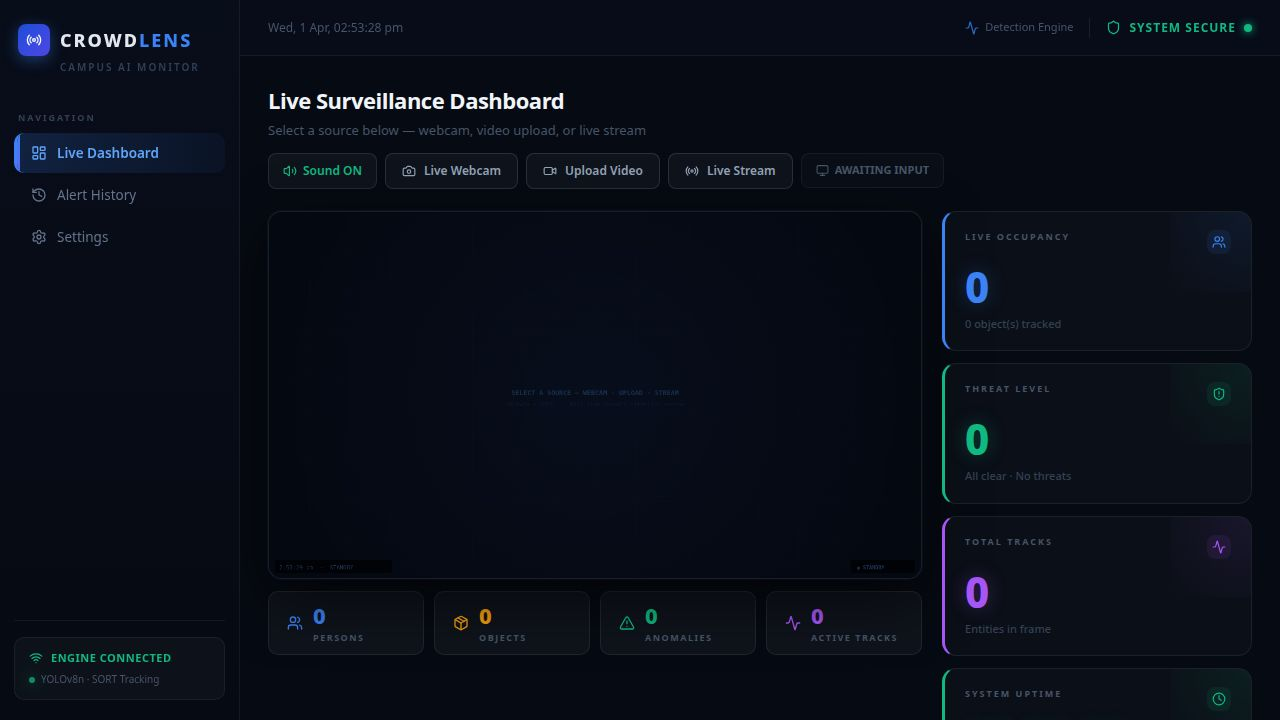
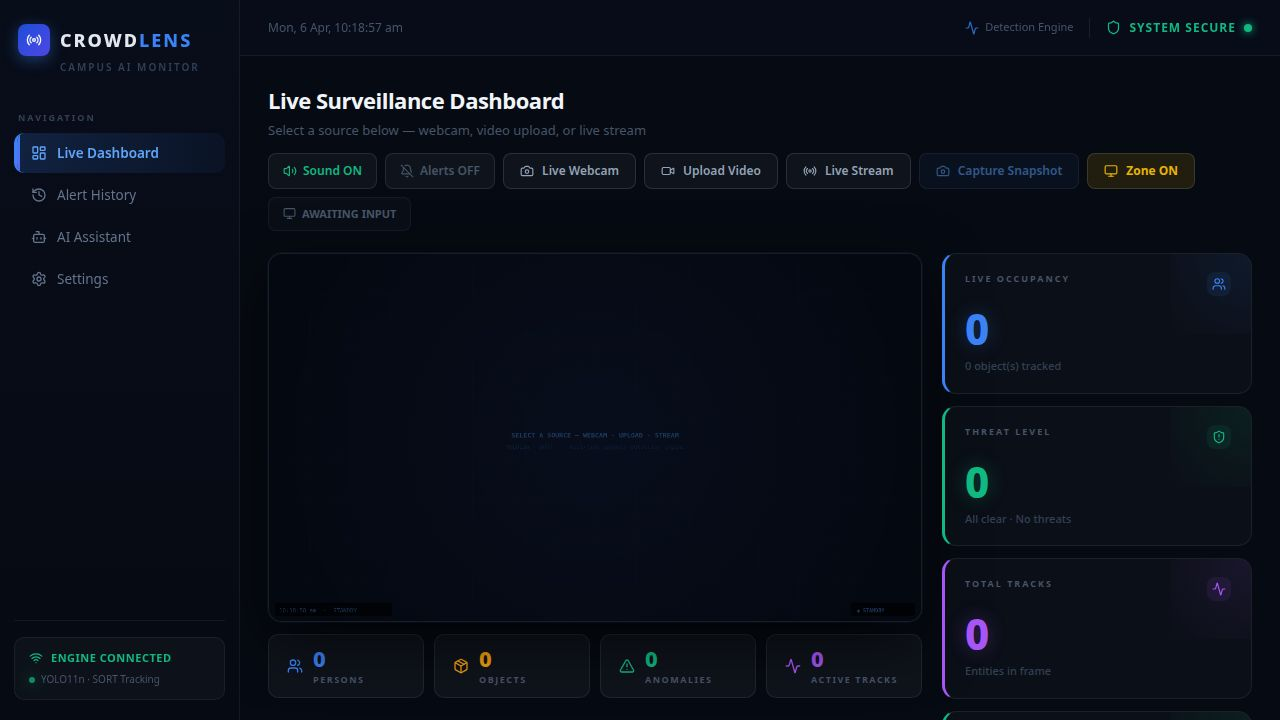
Add push notification button and update dashboard visuals
Integrate the `useNotifications` hook and display a push notification toggle button in the Dashboard component, alongside visual updates to `opengraph.jpg` and several attached asset images.

Replit-Commit-Author: Agent
Replit-Commit-Session-Id: 7c0d6a6c-655e-4f23-934e-887af8f44c07
Replit-Commit-Checkpoint-Type: full_checkpoint
Replit-Commit-Event-Id: 87b1e391-4aed-413d-b934-fa86273a5b99
Replit-Commit-Screenshot-Url: https://storage.googleapis.com/screenshot-production-us-central1/e94cf226-e4e5-4de8-a2ab-f9bf67825bd6/7c0d6a6c-655e-4f23-934e-887af8f44c07/TwPmcHe
Replit-Helium-Checkpoint-Created: true

diff --git a/artifacts/company-ai/src/pages/Dashboard.tsx b/artifacts/company-ai/src/pages/Dashboard.tsx
@@ -94,6 +94,7 @@ export default function Dashboard() {
   const displayMode = (frame?.mode as SourceMode) ?? sourceMode;
 
   useAlertSound(anomalies, soundEnabled);
+  const { permission: notifPermission, enabled: notifEnabled, requestPermission } = useNotifications(anomalies);
 
   useCamProcessor(
     sourceMode === "webcam" ? videoElRef : null,
@@ -377,6 +378,30 @@ export default function Dashboard() {
             {soundEnabled ? <Volume2 size={14} /> : <VolumeX size={14} />}
             {soundEnabled ? "Sound ON" : "Sound OFF"}
           </button>
+
+          {/* Browser push notifications toggle */}
+          {notifPermission !== "unsupported" && (
+            <button
+              onClick={requestPermission}
+              title={
+                notifPermission === "denied"
+                  ? "Notifications blocked — enable in browser settings"
+                  : notifEnabled
+                  ? "Disable push notifications"
+                  : "Enable push notifications"
+              }
+              style={{
+                display: "flex", alignItems: "center", gap: 6, padding: "8px 14px", borderRadius: 8,
+                border: "1px solid rgba(255,255,255,0.1)", background: "rgba(255,255,255,0.04)",
+                color: notifEnabled ? "#f59e0b" : "#475569",
+                cursor: notifPermission === "denied" ? "not-allowed" : "pointer",
+                fontSize: 12, fontWeight: 600, opacity: notifPermission === "denied" ? 0.5 : 1,
+              }}
+            >
+              {notifEnabled ? <Bell size={14} /> : <BellOff size={14} />}
+              {notifEnabled ? "Alerts ON" : "Alerts OFF"}
+            </button>
+          )}
 
           {/* Webcam button */}
           {cameraError && (
